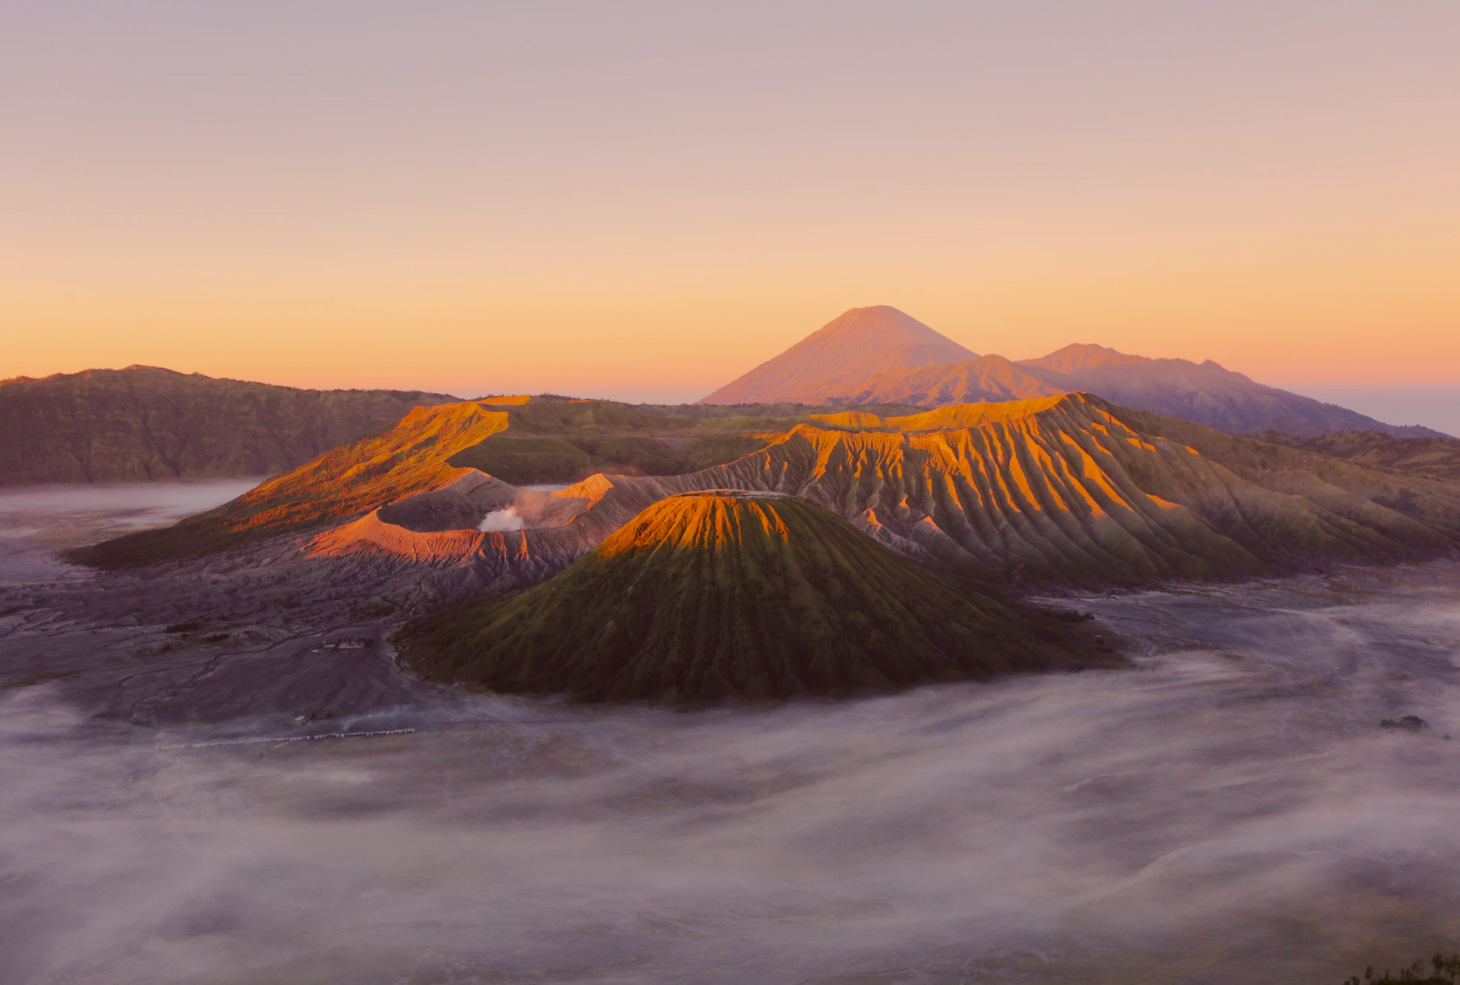
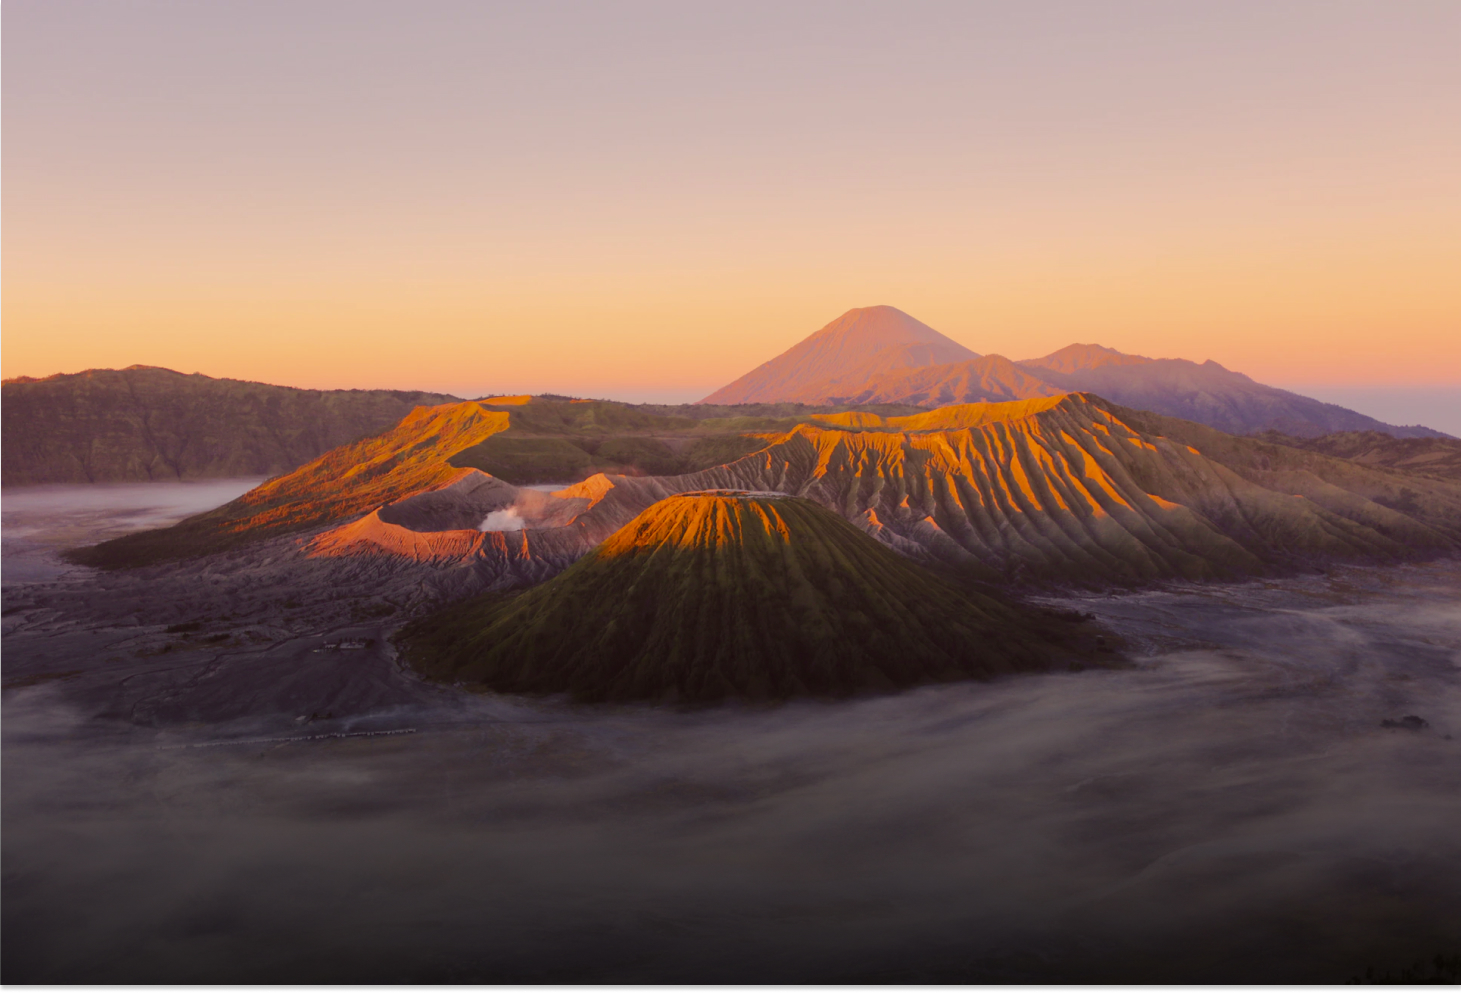
HW07+border img problem

diff --git a/06/index.html b/06/index.html
@@ -93,7 +93,37 @@
             </div>
         </div>
     </section>
-    <section class="4">2</section>
-    <footer class="footer">3</footer>
+    <section class="culture">
+        <div class="container">
+            <div class="culture_body">                 
+                <div class="culture_block">
+                    <p class="culture_block__label label">INDONESIAN CULTURE</p>
+                    <h2 class="culture_block__subtitle subtitle">Our culture here is very friendly to people</h2>
+                    <p class="culture_block__text text">known for his politeness, manners and gentleness. This becomes a 
+                        characteristic when they mingle with other tribes and become basic traits that are passed down by 
+                        their ancestors.
+                    </p>
+                    <a class="culture_block__link link" href="#">read more</a>
+                </div> 
+                <div class="culture__image">
+                    <img src="img/03.jpg" alt="03">
+                </div>               
+            </div>
+        </div>
+    </section>
+    <footer class="footer">
+        <div class="container">
+            <div class="footer_body">
+                <div class="footer__head">
+                    <div class="footer__logo logo">
+                        <p>QWER<span>y</span></p>
+                    </div>
+                    <div class="footer__button_redy"><a href="#">Ready to explore?</a></div>
+                    <div class="footer__button_start"><a href="#">Get started</a></div>
+                </div>
+                <div class="footer__main"></div>
+            </div>
+        </div>
+    </footer>
 </body>
 </html>

diff --git a/06/css/style.css b/06/css/style.css
@@ -243,6 +243,7 @@ line-height: 87px;
 .bromo {
     background: #000;
     max-width: 100%;
+    padding-bottom: 250px;
 }
 .container {
 }
@@ -258,6 +259,7 @@ line-height: 87px;
     flex-direction: column;
     justify-content: flex-end;
     position: relative;
+    
 }
 .slide__arrow_left {
     display: block;
@@ -322,6 +324,53 @@ line-height: 87px;
 .link {
 }
 .slide__link::after{
+    display: inline-block;
+    text-rendering: auto;
+    -webkit-font-smoothing: antialiased;
+    font: var(--fa-font-solid);
+    content: "\f178";
+    color: #FBD784;
+    font-size: 30px;
+    position: absolute;
+    top: 0px;
+    left: 110px;
+}
+
+/* -----------------------culture------------------------------------------------- */
+.culture {
+    background: #000;
+    padding-bottom: 250px;
+}
+.culture_body {
+    display: flex;
+    justify-content: space-between;
+    align-items: center;
+}
+.culture_block__label {
+    padding-left: 105px;
+    margin-bottom: 30px;
+}
+.culture_block__subtitle {
+    width: 555px;
+    margin-bottom: 30px;
+}
+.culture_block__text {
+    width: 632px;
+    margin-bottom: 30px;
+}
+.text {
+    font-size: 18px;
+    font-weight: 400;
+    line-height: 32px;
+    text-align: left;
+}
+.culture_block__link {
+    display: block;
+    margin: 40px auto;
+    position: relative;
+}
+
+.culture_block__link::after{
     display: inline-block;
     text-rendering: auto;
     -webkit-font-smoothing: antialiased;
